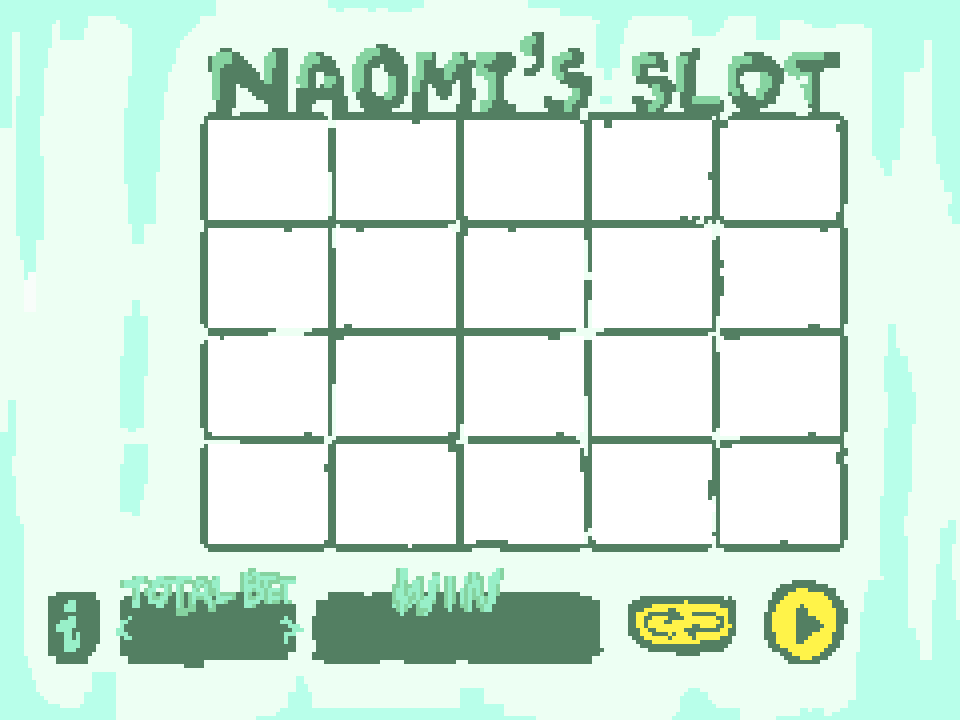
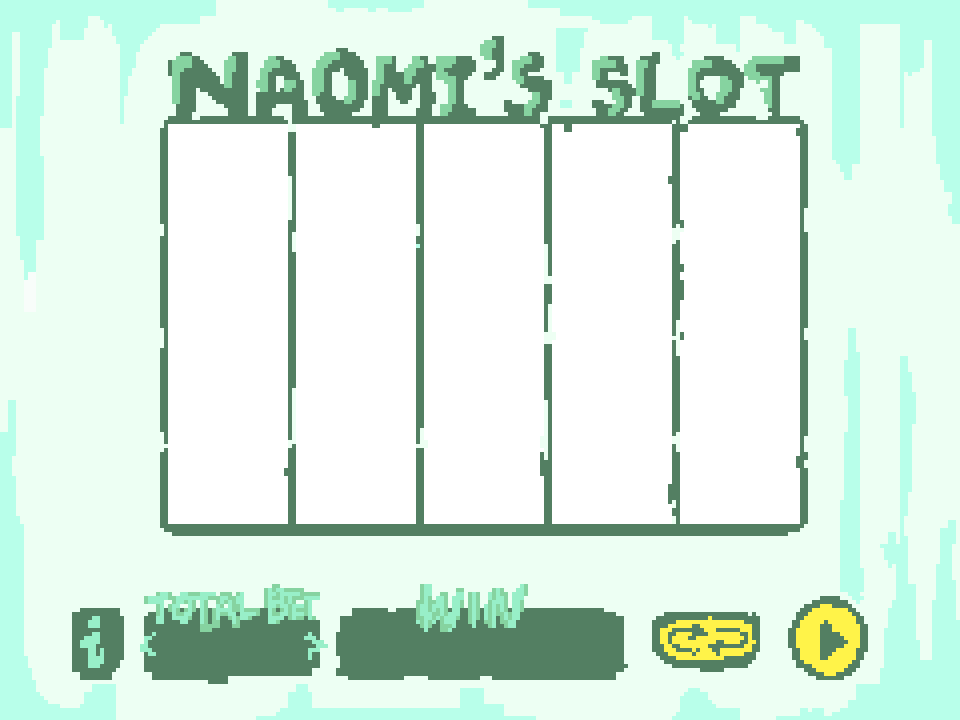
change the background image and prepare to skip auto play the showing line effect

Changed region(s): [[0.0312, 0.0, 0.9688, 0.9472]]

diff --git a/src/rewardManager.ts b/src/rewardManager.ts
@@ -5,12 +5,12 @@ import { APP, SYMBOL_MANAGER, UTIL, EAnimatedSprite } from './singleton';
 const SHOW_LINE_TIME = 800;
 const WHOLE_LINES_VISIBLE = -1;
 
-const X_START = 208;
-const Y_START = 120;
+const X_START = 168;
+const Y_START = 124;
 const WIDTH = 128;
-const HEIGHT = 108;
+const HEIGHT = 100;
 const LINE_START = 0;
-const X_FINISH = 840;
+const X_FINISH = 800;
 const BORDER_OFFSET = 8
 const BORDER_WIDTH = 5;
 const Z_FRONT = 2;
@@ -51,6 +51,7 @@ export default class CRewardManager {
 
     // 결과 체크 끝났는 지
     private bFinishedCheckResult: boolean = false;
+    private bCanSkip: boolean = false;
 
     private timeoutArray: NodeJS.Timeout[] = [];
 
@@ -71,20 +72,20 @@ export default class CRewardManager {
 
         // 이긴 금액 텍스트 셋팅
         let style = new TextStyle({fontSize: 28, fill: '#ffffff'});
-        this.winText = new Text({x: 455, y:635, zIndex:2, text: 0, style});
+        this.winText = new Text({x: 475, y:652, zIndex:2, text: 0, style});
         this.winText.visible = false;
         this.winText.anchor.set(0.5);
         APP.stage.addChild(this.winText);
 
         // 전체 베팅 금액 텍스트 셋팅
         style = new TextStyle({fontSize: 22, fill: '#ffffff'});
-        this.totalBetText = new Text({x: 207, y:631, zIndex:2, text: UTIL.addDollarSignAndCommaToNumber(this.totalBetArray[this.totalBetCurIdx]), style});
+        this.totalBetText = new Text({x: 227, y:648, zIndex:2, text: UTIL.addDollarSignAndCommaToNumber(this.totalBetArray[this.totalBetCurIdx]), style});
         this.totalBetText.anchor.set(0.5);
         APP.stage.addChild(this.totalBetText);
 
         // 전체 베팅 금액 변경 왼쪽 버튼
         this.totalBetLeftButton = new Graphics();
-        this.totalBetLeftButton.rect(110, 610, 40, 40);
+        this.totalBetLeftButton.rect(130, 627, 40, 40);
         this.totalBetLeftButton.fill({color: 0x66cc00, alpha: 0});
         this.totalBetLeftButton.zIndex = 2;
         this.totalBetLeftButton.eventMode = 'static';
@@ -93,7 +94,7 @@ export default class CRewardManager {
 
         // 전체 베팅 금액 변경 오른쪽
         this.totalBetRightButton = new Graphics();
-        this.totalBetRightButton.rect(265, 610, 40, 40);
+        this.totalBetRightButton.rect(285, 627, 40, 40);
         this.totalBetRightButton.fill({color: 0x66cc00, alpha: 0});
         this.totalBetRightButton.zIndex = 2;
         this.totalBetRightButton.eventMode = 'static';
@@ -368,7 +369,7 @@ export default class CRewardManager {
             if(typeof matchedSprite == "number") {
                 continue;
             }
-            rectGraphic.rect(matchedSprite.x, matchedSprite.y, WIDTH - BORDER_OFFSET, HEIGHT - BORDER_OFFSET);
+            rectGraphic.rect(matchedSprite.x, matchedSprite.y, WIDTH - BORDER_OFFSET, HEIGHT);
             rectGraphic.stroke({ width: BORDER_WIDTH, color: color_ });
         }
         rectGraphic.zIndex = Z_FRONT;
@@ -379,7 +380,7 @@ export default class CRewardManager {
 
     private drawLineWinText(winAmount_: number, color_: number): void {
         let textContent: string = "Line Win Pays: " + winAmount_;
-            let style = new TextStyle({fontSize: 12, fill: color_});
+            let style = new TextStyle({fontSize: 18, fill: color_});
             let tempText = new Text({x: 150, y:555, zIndex:Z_FRONT, text: textContent, style});
             tempText.visible = false;
             APP.stage.addChild(tempText);
@@ -394,6 +395,15 @@ export default class CRewardManager {
             this.bFinishedCheckResult = false;
             return true;
         }
+        return false;
+    }
+
+    public isCanSkip(): boolean {
+        if(this.bCanSkip == true) {
+            this.bCanSkip = false;
+            return true;
+        }
+
         return false;
     }
 
@@ -589,6 +599,7 @@ export default class CRewardManager {
         this.winText.visible = false;
         this.winText.text = 0;
         this.bFinishedCheckResult = false;
+        this.bCanSkip = false;
 
         SYMBOL_MANAGER.deleteWholeEffect();
 

diff --git a/src/slot.ts b/src/slot.ts
@@ -41,7 +41,7 @@ export default class CSlot {
         document.body.appendChild(APP.canvas);
 
         // 백그라운드 텍스쳐 로드
-        const texture = await Assets.loader.load('assets/background.png');
+        let texture = await Assets.loader.load('assets/background.png');
 
         // 백그라운드 생성
         const background = new Sprite(texture);
@@ -54,6 +54,21 @@ export default class CSlot {
         background.zIndex = 1;
 
         APP.stage.addChild(background);
+
+        // 백그라운드 텍스쳐 로드
+        texture = await Assets.loader.load('assets/background2.png');
+
+        // 백그라운드 생성
+        const background2= new Sprite(texture);
+
+        // Move the sprite to the center of the screen
+        background2.x = 0;
+        background2.y = 0;
+
+        // 백그라운드 이미지가 항상 뒤에 오도록
+        background2.zIndex = -1;
+
+        APP.stage.addChild(background2);
     }
 
     ///////////////////////////////////////////////////////////////////////////
@@ -62,7 +77,7 @@ export default class CSlot {
     public setUI(): void {
         // 시작 버튼
         this.startButton = new Graphics();
-        this.startButton.circle(805, 623, 41);
+        this.startButton.circle(828, 638, 41);
         this.startButton.fill({alpha: 0.3});
         this.startButton.tint = 0xffef55;
         this.startButton.zIndex = 2;
@@ -73,12 +88,12 @@ export default class CSlot {
 
         // 오토 플레이 버튼
         this.autoButton = new Graphics();
-        this.autoButton.ellipse(685, 623, 43, 20);
+        this.autoButton.ellipse(708, 639, 43, 20);
         this.autoButton.fill(0xffef55);
 
-        this.autoButton.moveTo(670, 615);
-        this.autoButton.lineTo(710, 625);
-        this.autoButton.lineTo(670, 635);
+        this.autoButton.moveTo(692, 630);
+        this.autoButton.lineTo(732, 640);
+        this.autoButton.lineTo(692, 650);
         this.autoButton.fill(0x04B45F);
 
         this.autoButton.zIndex = 2;
@@ -210,22 +225,22 @@ export default class CSlot {
             this.startGame();
 
             this.autoButton.clear();
-            this.autoButton.ellipse(685, 623, 43, 20);
+            this.autoButton.ellipse(708, 639, 43, 20);
             this.autoButton.fill(0xffef55);
     
-            this.autoButton.rect(668, 615, 10, 20);
-            this.autoButton.rect(688, 615, 10, 20);
+            this.autoButton.rect(692, 630, 10, 20);
+            this.autoButton.rect(712, 630, 10, 20);
             this.autoButton.fill(0x04B45F);
         } else {
             this.bAuto = false;
 
             this.autoButton.clear();
-            this.autoButton.ellipse(685, 623, 43, 20);
+            this.autoButton.ellipse(708, 639, 43, 20);
             this.autoButton.fill(0xffef55);
     
-            this.autoButton.moveTo(670, 615);
-            this.autoButton.lineTo(710, 625);
-            this.autoButton.lineTo(670, 635);
+            this.autoButton.moveTo(692, 630);
+            this.autoButton.lineTo(732, 640);
+            this.autoButton.lineTo(692, 650);
             this.autoButton.fill(0x04B45F);
         }
     }

diff --git a/src/reel.ts b/src/reel.ts
@@ -2,7 +2,7 @@ import { Sprite } from "pixi.js";
 import { TweenMax } from 'gsap/TweenMax';
 import { APP, SYMBOL_MANAGER, UTIL } from "./singleton"
 
-const Y_POS_GAP = 108;
+const Y_POS_GAP = 100;
 const WAIT_FOR_STOP_SIGN = -1;
 const FIRST_REEL_DOES_NOT_NEED_PERMISSION = 0;
 const SYMBOLS_ON_SCREEN_LENGTH = 4;
@@ -150,7 +150,7 @@ export default class CReel {
     private moveSymbolByTweenMaxRecursion(symbol_: CSymbol): void {
         const THUD_VISUAL_EFFECT = 50;
         const THUD_EFFECT_DELAY = 0.015;
-        const MAX_Y_POS = 552;
+        const MAX_Y_POS = 524;
         // 스핀 스탑할 때 텅하는 효과, 재귀 종료
 
             // 재귀 호출로 이미지 이동 및 변경
